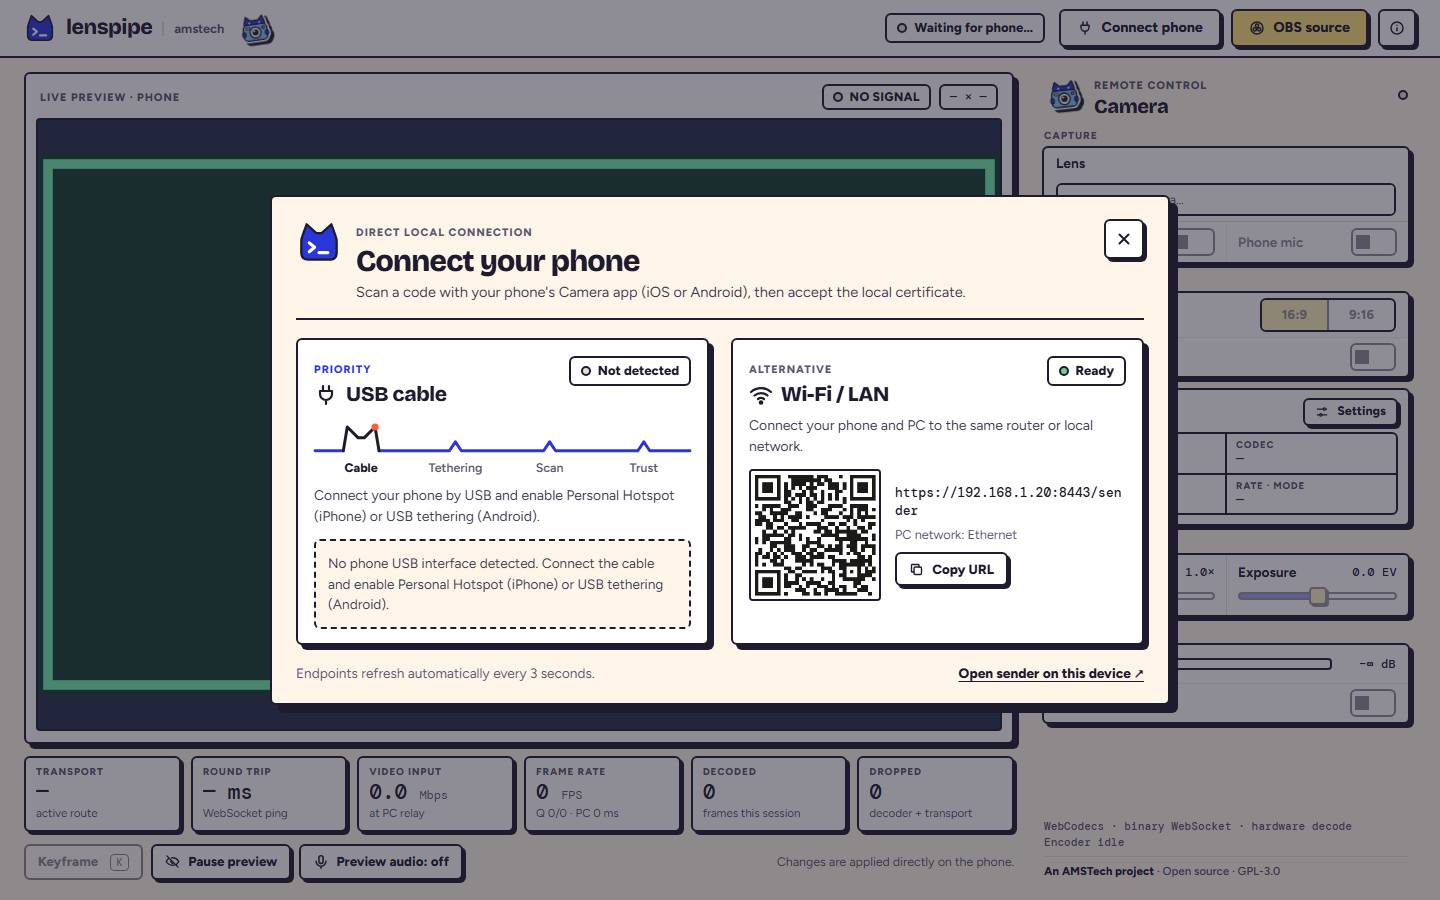
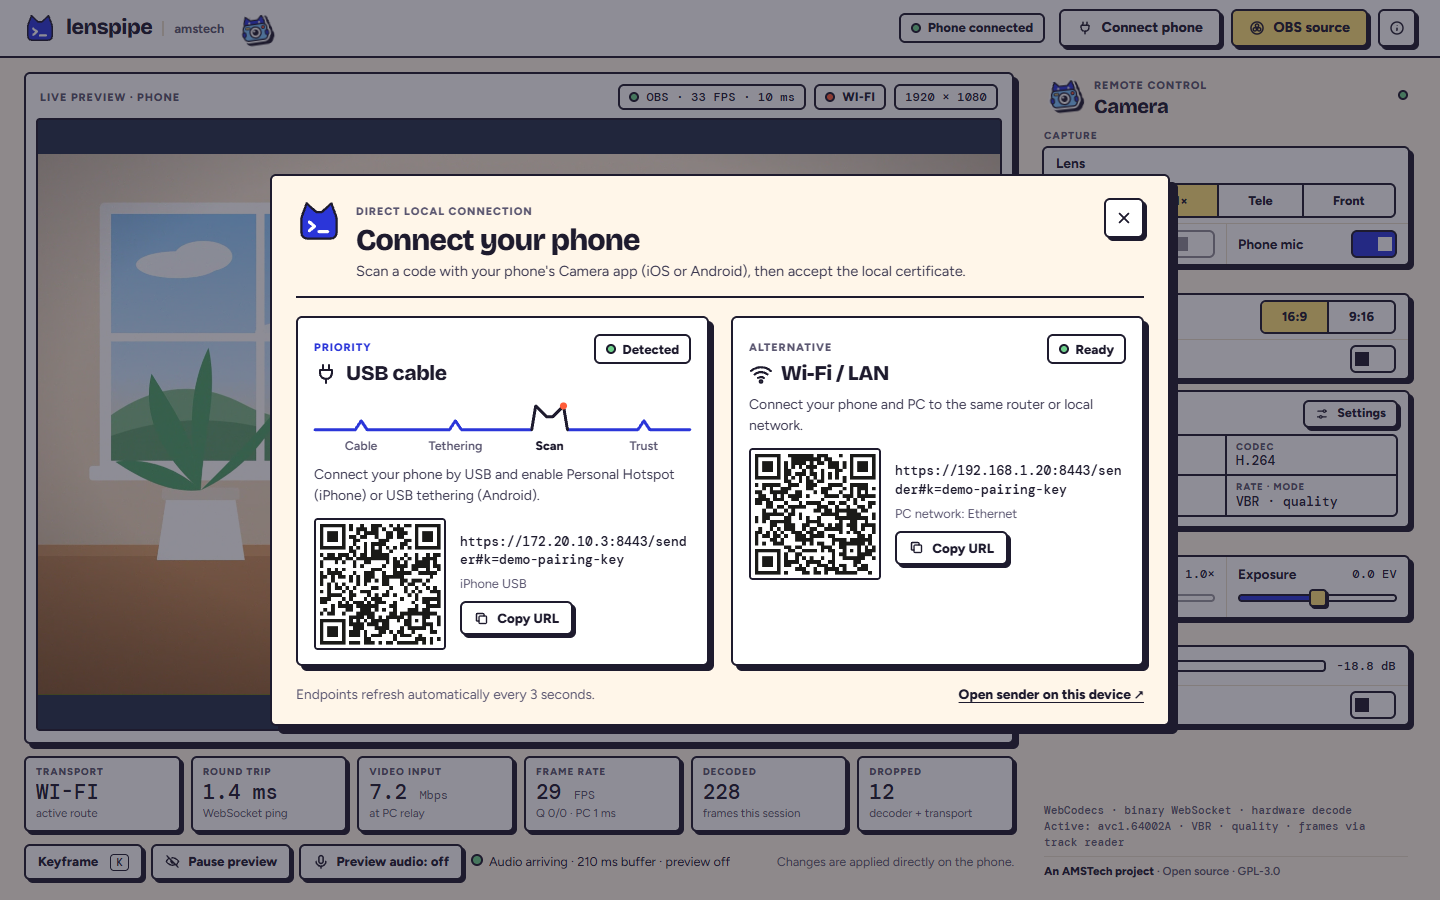
Take README screenshots from a real stream and show the QR and settings views
- New npm run screenshots (scripts/docs-screenshots.mjs): starts a fresh
  server, headless Chrome plays the phone with a fake camera showing an
  illustrated scene (scripts/assets/demo-scene.svg) and a fake mic, and the
  studio and OBS decode it live. Lenses get iPhone-like names and the
  connect dialog demo addresses and key, so nothing from this PC shows.
- README: live studio, connect dialog (USB + Wi-Fi QR codes), studio and
  phone settings, phone streaming. Old test-pattern screenshots removed.
- check-ui.mjs is layout checks only; its screenshots stay in artifacts/.

diff --git a/README.md b/README.md
@@ -15,8 +15,7 @@
 Use your phone (**iPhone or Android**) as a low-latency studio camera on your PC and in OBS, over a USB cable or Wi-Fi. The phone only needs its browser: no app, no account, no cloud. Video never leaves your local network.
 
 <p align="center">
-  <img src="docs/screenshots/control-desktop.png" alt="PC studio with live preview, telemetry and remote camera controls" width="690">
-  <img src="docs/screenshots/sender-controls-mobile.png" alt="Phone camera page with lens, aspect, torch, mic and settings keys" width="210">
+  <img src="docs/screenshots/control-desktop.png" alt="PC studio streaming live from the phone, with OBS connected, telemetry and remote camera controls" width="900">
 </p>
 
 ## Features
@@ -66,6 +65,10 @@ Click **Connect phone** in the studio and scan a QR code with the phone's camera
 
 **Wi-Fi / LAN:** put the phone and the PC on the same network and scan the **Wi-Fi / LAN** QR code.
 
+<p align="center">
+  <img src="docs/screenshots/control-connection.png" alt="Connect phone dialog with a QR code for the USB cable and one for Wi-Fi" width="700">
+</p>
+
 The first time, the phone warns about the certificate, because it is created on your PC and not by a public authority. Tap **Show Details → visit this website** (iPhone) or **Advanced → Proceed** (Android). Then tap **Start camera**.
 
 ## Use it in OBS
@@ -80,7 +83,11 @@ The first time, the phone warns about the certificate, because it is created on 
 
 ## Settings
 
-Open **Settings** in the studio's Stream panel (or on the phone).
+Open **Settings** in the studio's Stream panel, or on the phone. Changes apply at once and the phone remembers them.
+
+<p align="center">
+  <img src="docs/screenshots/control-settings.png" alt="Stream settings in the studio: quick profiles, format, codec, bitrate, rate control, focus, exposure and microphone" width="700">
+</p>
 
 | Profile | Format | Codec | Bitrate | Best for |
 | --- | --- | --- | --- | --- |
@@ -93,6 +100,13 @@ Open **Settings** in the studio's Stream panel (or on the phone).
 - On the phone, **OLED off** turns the screen black while streaming; hold for 2 seconds to wake it.
 - In the studio, click the preview to focus, and press `K` to recover a smeared or frozen picture.
 - `/diag` on the phone tests which formats each lens really supports.
+
+The phone, streaming held sideways, and its own settings:
+
+<p align="center">
+  <img src="docs/screenshots/sender-live.png" alt="The phone streaming, held sideways: lens, aspect, rotate, torch, mic, OLED off and settings keys" width="560">
+  <img src="docs/screenshots/sender-settings.png" alt="Stream settings on the phone" width="120">
+</p>
 
 ## Troubleshooting
 

diff --git a/docs/DEVELOPMENT.md b/docs/DEVELOPMENT.md
@@ -88,10 +88,11 @@ With the server running (`npm start`):
 ```sh
 npm run test:relay     # pages, relay, acknowledgements, control round-trip
 npm run test:ui        # headless Chrome layout checks (CHROME_PATH to pick the browser)
-npm run screenshots    # regenerate docs/screenshots/
 npm run test:audio     # audio playback under bursty delivery
 npm run measure:pc     # PC decode + draw time while streaming
 ```
+
+`npm run screenshots` regenerates the README images in `docs/screenshots/` from a real stream: it starts its own server, and headless Chrome plays the phone with a fake camera showing `scripts/assets/demo-scene.svg`. It needs a build, Chrome and `ffmpeg` (or `FFMPEG`). Addresses and the pairing key shown are demo values.
 
 CI (`.github/workflows/ci.yml`) runs typecheck, unit, desktop and relay tests on every pull request and push to `main`.
 
